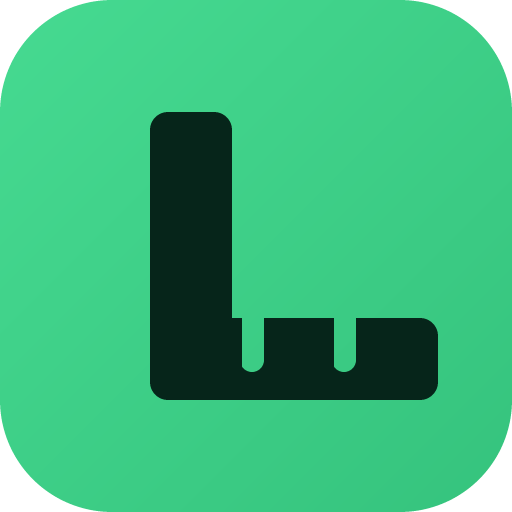
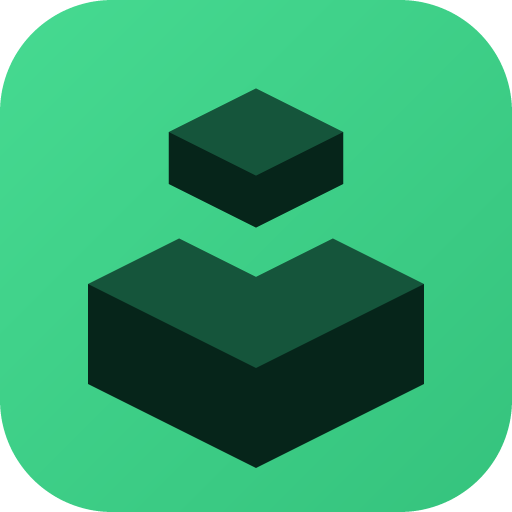
A mark, and stop a slow start looking like an empty install
The logo is a cube with one block lifted clear of it -- Minecraft and
modularity in one shape, and it says what the launcher is for without needing
a letter. The gap between the two is cut out of the cube rather than implied,
because at sixteen pixels a shape that merely almost touches has merged; the
proportions were chosen by rendering four variants at 64, 32 and 16 and
keeping the one that survived the smallest.

Rendered without an image library, supersampled, and the SVG is generated
from the same coordinates as the PNGs so the two cannot drift. Ships as
sizes 16 to 512, a Windows .ico, and an SVG.

electron-builder would not have shipped any of it. The assets directory was
not in the files list and no icon was configured at all, so a packaged build
would have worn Electron's own logo and the window icon path would have
resolved to nothing.

Separately, and found while taking screenshots of all this: the interface
could come up permanently empty. `start()` latched its guard on the attempt
rather than the result, so a first load that lost a race with the backend
coming up left the flag set -- and the ready event arriving a moment later
did nothing, because as far as the guard was concerned the job was done. The
window then sat there for the rest of the session looking exactly like an
install with no instances. The guard is released again on failure.

Both READMEs were describing an earlier version of this. The launcher's still
[…]

Changed region(s): [[0.1562, 0.1562, 0.875, 0.9062]]

diff --git a/app/src/renderer/index.html b/app/src/renderer/index.html
@@ -37,19 +37,41 @@
 	<symbol id="i-play" viewBox="0 0 24 24" fill="currentColor" stroke="none"><path d="M7 4.5v15l13-7.5z"/></symbol>
 	<symbol id="i-stop" viewBox="0 0 24 24" fill="currentColor" stroke="none"><rect x="6" y="6" width="12" height="12" rx="1.5"/></symbol>
 	<!--
-		The Loadout mark: an L with two slots cut into its foot. Masked rather than drawn
-		as separate blocks, so it takes currentColor and stays one shape -- three separate
-		pieces of falling height read as a bar chart rather than a letter.
+		The Loadout mark: a cube with one block lifted clear of it. Full colour rather
+		than currentColor, because the badge is what carries it against a dark titlebar.
+		Generated alongside the PNGs from one set of coordinates -- see app/assets.
 	-->
-	<mask id="loadout-mark" maskUnits="userSpaceOnUse" x="0" y="0" width="512" height="512">
-		<rect width="512" height="512" fill="black"/>
-		<rect x="150" y="112" width="82" height="288" rx="18" fill="white"/>
-		<rect x="150" y="318" width="288" height="82" rx="18" fill="white"/>
-		<rect x="242" y="300" width="22" height="72" rx="11" fill="black"/>
-		<rect x="334" y="300" width="22" height="72" rx="11" fill="black"/>
-	</mask>
-	<symbol id="i-loadout" viewBox="112 92 320 328">
-		<rect width="512" height="512" fill="currentColor" mask="url(#loadout-mark)"/>
+	<symbol id="i-loadout" viewBox="0 0 512 512">
+		<defs>
+		<linearGradient id="brand-loadout-badge" x1="0" y1="0" x2="1" y2="1">
+		<stop offset="0" stop-color="#46da91"/>
+		<stop offset="1" stop-color="#35c37d"/>
+		</linearGradient>
+		<clipPath id="brand-loadout-clip">
+		<rect width="512" height="512" rx="112"/>
+		</clipPath>
+		</defs>
+
+		<rect width="512" height="512" rx="112" fill="url(#brand-loadout-badge)"/>
+
+		<g clip-path="url(#brand-loadout-clip)">
+		<!-- The cube below, with the lifted block's halo taken back out of it. -->
+		<mask id="brand-loadout-halo">
+		<rect width="512" height="512" fill="white"/>
+		<polygon points="256.0,57.1 393.8,126.0 256.0,194.9 118.2,126.0" fill="black"/>
+		<polygon points="118.2,126.0 256.0,194.9 256.0,276.9 118.2,208.0" fill="black"/>
+		<polygon points="393.8,126.0 256.0,194.9 256.0,276.9 393.8,208.0" fill="black"/>
+		</mask>
+		<g mask="url(#brand-loadout-halo)">
+		<polygon points="88.0,284.0 256.0,368.0 256.0,468.0 88.0,384.0" fill="#06251a"/>
+		<polygon points="424.0,284.0 256.0,368.0 256.0,468.0 424.0,384.0" fill="#06251a"/>
+		<polygon points="256.0,200.0 424.0,284.0 256.0,368.0 88.0,284.0" fill="#15553b"/>
+		</g>
+
+		<polygon points="168.6,132.0 256.0,175.7 256.0,227.7 168.6,184.0" fill="#06251a"/>
+		<polygon points="343.4,132.0 256.0,175.7 256.0,227.7 343.4,184.0" fill="#06251a"/>
+		<polygon points="256.0,88.3 343.4,132.0 256.0,175.7 168.6,132.0" fill="#15553b"/>
+		</g>
 	</symbol>
 	<symbol id="i-folder" viewBox="0 0 24 24" fill="currentColor" stroke="none">
 		<path d="M3 6.5A1.5 1.5 0 0 1 4.5 5h4l2 2.5h9A1.5 1.5 0 0 1 21 9v9a1.5 1.5 0 0 1-1.5 1.5h-15A1.5 1.5 0 0 1 3 18z"/>

diff --git a/app/src/renderer/app.js b/app/src/renderer/app.js
@@ -730,7 +730,7 @@ function show(view) {
 
 async function loadInstances() {
 	const data = await call(api.profiles.list(), 'Could not load instances');
-	if (!data) return;
+	if (!data) return false;
 
 	state.instances = data.profiles;
 	renderRail();
@@ -744,6 +744,7 @@ async function loadInstances() {
 		state.current = null;
 		show('home');
 	}
+	return true;
 }
 
 function renderRail() {
@@ -2779,6 +2780,11 @@ function wire() {
  * Guarded because it is reached two ways -- the ready event and the health check below --
  * and whichever arrives second would otherwise reload everything and send the view back
  * to home, which is not harmless once someone has clicked into an instance.
+ *
+ * The guard is released again if the load failed. It used to latch on the attempt rather
+ * than on the result, so a first try that lost a race with the backend coming up left the
+ * flag set, the ready event arriving afterwards did nothing, and the window sat there
+ * empty for the rest of the session -- looking exactly like an install with no instances.
  */
 let started = false;
 async function start() {
@@ -2790,7 +2796,12 @@ async function start() {
 	applyDensity(stored('density', 'comfortable'));
 	renderAppearance();
 
-	await loadInstances();
+	if (!await loadInstances()) {
+		started = false;
+		show('home');
+		return;
+	}
+
 	renderAccountChip();
 	show('home');
 }

diff --git a/app/src/renderer/styles.css b/app/src/renderer/styles.css
@@ -769,12 +769,15 @@ img.art { color: transparent; }
 	26px inset the hero has -- a full-bleed strip there reads as part of the chrome rather
 	than as something about this instance.
 */
-/* The mark beside the wordmark. Accent-coloured, since it is the one piece of branding
-   on screen and the titlebar is otherwise deliberately quiet. */
+/* The mark beside the wordmark. It carries its own badge, so it is sized rather than
+   coloured -- the one piece of branding on screen, in a titlebar that is otherwise
+   deliberately quiet. */
 .brand-mark {
-	color: var(--accent);
-	margin-right: 7px;
-	vertical-align: -2px;
+	width: 17px;
+	height: 17px;
+	margin-right: 9px;
+	border-radius: 4px;
+	vertical-align: -3px;
 }
 
 #launch-warning {

diff --git a/README.md b/README.md
@@ -3,8 +3,10 @@
 A Minecraft profile manager and launcher for Java Edition, focused on the thing other
 launchers handle worst: **moving a set of mods from one Minecraft version to another.**
 
-> Early but working. Installs and launches Minecraft with Fabric, and migrates profiles
-> between versions against the live Modrinth API. Command line only so far.
+> Early but working. Installs and launches Minecraft with Fabric, signs in with a
+> Microsoft account, migrates profiles between versions against the live Modrinth and
+> CurseForge APIs, and ships a desktop interface and a companion mod that manages mods
+> from inside a running game.
 
 ## The problem it solves
 
@@ -150,7 +152,7 @@ it without reimplementing anything. It prints its port and access token as one l
 JSON, then runs until stopped:
 
 ```json
-{"ready":true,"port":47399,"token":"...","pid":24844}
+{"ready":true,"port":47399,"token":"...","gameToken":"...","pid":24844}
 ```
 
 Every request needs `Authorization: Bearer <token>`. Long operations — install, migrate,
@@ -159,6 +161,45 @@ server-sent events.
 
 The server is loopback-only, sends no CORS headers, and checks the `Host` header, so a
 web page cannot reach it even while the launcher is running.
+
+### Two tokens
+
+There are two, and the second is the interesting one. `gameToken` is handed to the game
+Loadout starts, so the [companion mod](https://github.com/ComplexKing/loadout-mod) can
+manage mods from inside a session. Anything in that JVM can read a system property, so
+whatever goes there has to be something it is acceptable for *every* mod in the pack to
+hold — which means it reaches a deliberately small set of endpoints and nothing else:
+
+| The game token can | It cannot |
+| --- | --- |
+| read this instance, search, install | touch accounts |
+| turn mods on and off for next launch | change settings |
+| report that the client finished starting | delete anything |
+| start a successor to itself, to apply a change | |
+
+Both are compared in constant time, and both are always checked, so timing cannot
+distinguish which one was wrong.
+
+## When a game stops starting
+
+Adding a mod and finding the game will not start is the failure this launcher is most
+able to help with, because it knows something the crash log does not: which mod set
+worked last time.
+
+The companion mod reports in once the client is up — Fabric resolved the list, every mixin
+applied, the window exists. Nothing outside the process can tell that apart from a game
+that died before the window opened; both look like a process that was running and then was
+not. The first time a given set reports in, a snapshot is taken.
+
+So when a launch exits badly inside the first minute without ever reporting, the interface
+says so and offers the last set that did start. It offers; it does not act. Rewriting
+somebody's mod list because a process exited badly is help that is indistinguishable from
+a bug, and the diagnosis is a good guess rather than a fact.
+
+It also stays quiet when it should. A game that ran for an hour and then crashed *did*
+start, so its mods are not the answer. And a failed start with the same mods that worked
+last time says exactly that, rather than offering a rollback that would change nothing and
+send somebody looking in the wrong place.
 
 ## Desktop app
 
@@ -190,7 +231,14 @@ renders titles and descriptions written by strangers on two public registries.
 
 ## Not done yet
 
-- **Microsoft sign-in** — pending an approved Azure application.
+- **In-game browsing.** The companion mod lists and toggles what is installed, but adding
+  something new still means the launcher window.
+- **Rejoining a Realm.** Quick play can reopen one, but by realm id rather than anything
+  the client hands out, and a rejoin that opens the wrong world is worse than one that
+  admits it cannot.
+- **Shader packs**, which are a loader's concept rather than the game's — and the loader
+  that reads `shaderpacks/` does not run on 26.2's Vulkan path at all. Loadout installs
+  them into the folder for whenever that changes.
 
 ## Licence
 
